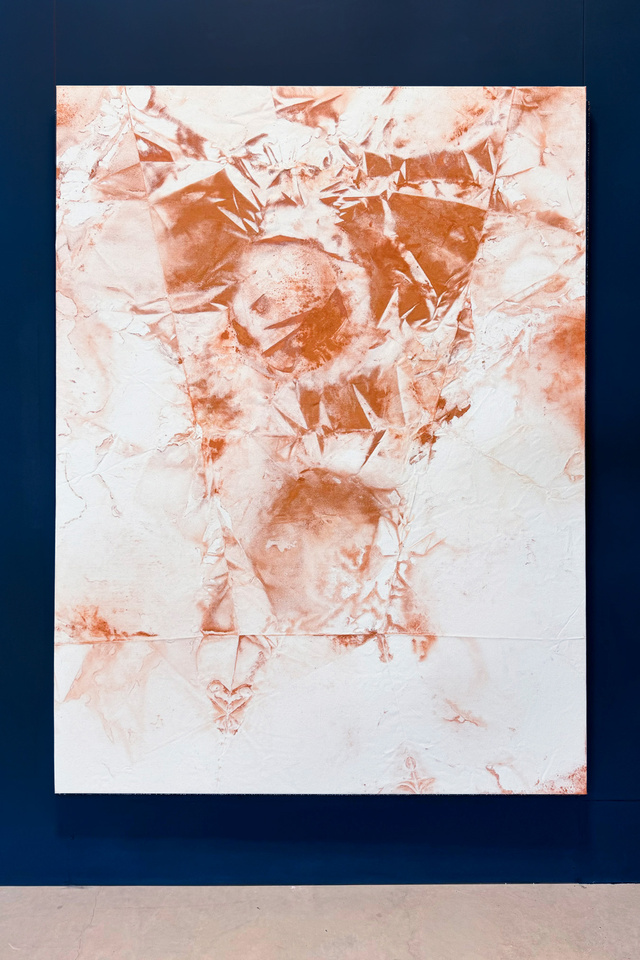
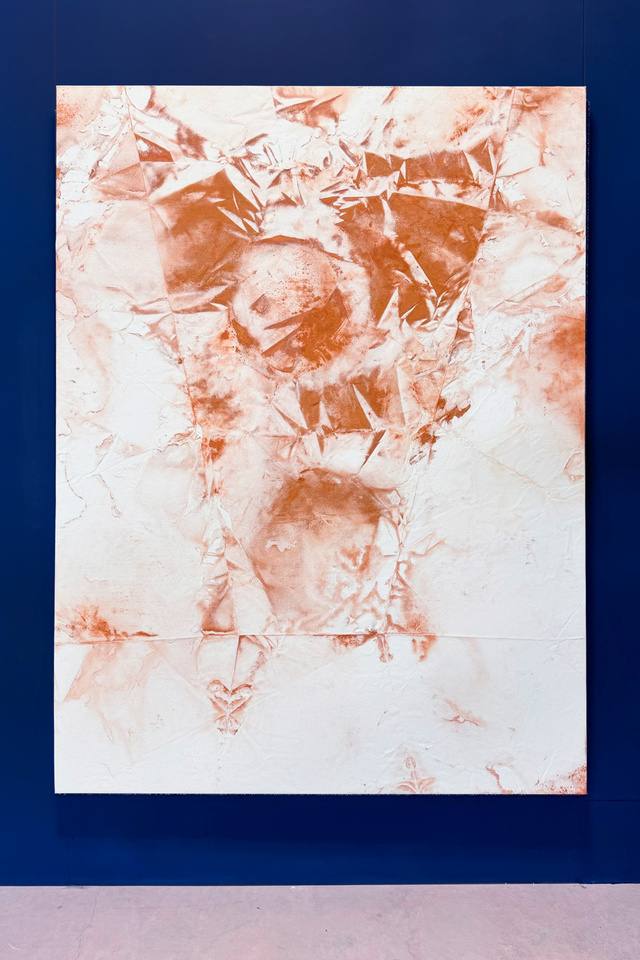
Refresh Echoes of Extraction images

diff --git a/fr/oeuvres/index.html b/fr/oeuvres/index.html
@@ -207,7 +207,7 @@
             </article>
 
             <article class="work-item" id="work-echoes-of-extraction" data-medium="installation" data-series="echoes-of-extraction">
-                <img src="../../images/series/24%20echoes%20of%20extraction/i_Echoes%20of%20Extraction%203.2.jpg" alt="Echoes of Extraction, vue d’installation" width="3568" height="2379" loading="lazy" decoding="async" srcset="../../images/responsive/480/series/24%20echoes%20of%20extraction/i_Echoes%20of%20Extraction%203.2.jpg 480w, ../../images/responsive/series/24%20echoes%20of%20extraction/i_Echoes%20of%20Extraction%203.2.jpg 960w, ../../images/series/24%20echoes%20of%20extraction/i_Echoes%20of%20Extraction%203.2.jpg 3568w" sizes="(max-width: 40rem) calc(100vw - 1.5rem), (max-width: 64rem) calc(50vw - 3rem), calc(25vw - 2rem)">
+                <img src="../../images/series/24%20echoes%20of%20extraction/Echoes%20of%20extraction%202.3.jpg" alt="Echoes of Extraction, vue d’installation" width="3568" height="2379" loading="lazy" decoding="async" srcset="../../images/responsive/480/series/24%20echoes%20of%20extraction/Echoes%20of%20extraction%202.3.jpg 480w, ../../images/responsive/series/24%20echoes%20of%20extraction/Echoes%20of%20extraction%202.3.jpg 960w, ../../images/series/24%20echoes%20of%20extraction/Echoes%20of%20extraction%202.3.jpg 3568w" sizes="(max-width: 40rem) calc(100vw - 1.5rem), (max-width: 64rem) calc(50vw - 3rem), calc(25vw - 2rem)">
                 <div class="artwork-description">
                     <p><strong>Echoes of Extraction</strong></p>
                     <p>2024</p>
@@ -514,7 +514,7 @@
             </article>
 
             <article class="work-item" data-medium="painting" data-series="echoes-of-extraction">
-                <img loading="lazy" decoding="async" src="../../images/painting/Fractal%20Forest%201%203.2.jpg" alt="Fractal Forest" width="6905" height="4604" data-lightbox-group="fractal-forest" srcset="../../images/responsive/480/painting/Fractal%20Forest%201%203.2.jpg 480w, ../../images/responsive/painting/Fractal%20Forest%201%203.2.jpg 960w, ../../images/painting/Fractal%20Forest%201%203.2.jpg 6905w" sizes="(max-width: 40rem) calc(100vw - 1.5rem), (max-width: 64rem) calc(50vw - 3rem), calc(25vw - 2rem)">
+                <img loading="lazy" decoding="async" src="../../images/painting/Fractal%20Forest%201%203.2.jpg" alt="Fractal Forest" width="3450" height="2300" data-lightbox-group="fractal-forest" srcset="../../images/responsive/480/painting/Fractal%20Forest%201%203.2.jpg 480w, ../../images/responsive/painting/Fractal%20Forest%201%203.2.jpg 960w, ../../images/painting/Fractal%20Forest%201%203.2.jpg 3450w" sizes="(max-width: 40rem) calc(100vw - 1.5rem), (max-width: 64rem) calc(50vw - 3rem), calc(25vw - 2rem)">
                 <img src="../../images/painting/Fractal%20Forest%202%203.2.jpg" alt="Fractal Forest" width="3568" height="2379" loading="lazy" decoding="async" data-lightbox-only data-lightbox-group="fractal-forest" hidden>
                 <div class="artwork-description">
                     <p><strong>Fractal Forest</strong></p>

diff --git a/selected-works/index.html b/selected-works/index.html
@@ -205,7 +205,7 @@
             </article>
 
             <article class="work-item" id="work-echoes-of-extraction" data-medium="installation" data-series="echoes-of-extraction">
-                <img src="../images/series/24%20echoes%20of%20extraction/i_Echoes%20of%20Extraction%203.2.jpg" alt="Echoes of Extraction, installation view" width="3568" height="2379" loading="lazy" decoding="async" srcset="../images/responsive/480/series/24%20echoes%20of%20extraction/i_Echoes%20of%20Extraction%203.2.jpg 480w, ../images/responsive/series/24%20echoes%20of%20extraction/i_Echoes%20of%20Extraction%203.2.jpg 960w, ../images/series/24%20echoes%20of%20extraction/i_Echoes%20of%20Extraction%203.2.jpg 3568w" sizes="(max-width: 40rem) calc(100vw - 1.5rem), (max-width: 64rem) calc(50vw - 3rem), calc(25vw - 2rem)">
+                <img src="../images/series/24%20echoes%20of%20extraction/Echoes%20of%20extraction%202.3.jpg" alt="Echoes of Extraction, installation view" width="3568" height="2379" loading="lazy" decoding="async" srcset="../images/responsive/480/series/24%20echoes%20of%20extraction/Echoes%20of%20extraction%202.3.jpg 480w, ../images/responsive/series/24%20echoes%20of%20extraction/Echoes%20of%20extraction%202.3.jpg 960w, ../images/series/24%20echoes%20of%20extraction/Echoes%20of%20extraction%202.3.jpg 3568w" sizes="(max-width: 40rem) calc(100vw - 1.5rem), (max-width: 64rem) calc(50vw - 3rem), calc(25vw - 2rem)">
                 <div class="artwork-description">
                     <p><strong>Echoes of Extraction</strong></p>
                     <p>2024</p>
@@ -512,7 +512,7 @@
             </article>
 
             <article class="work-item" data-medium="painting" data-series="echoes-of-extraction">
-                <img loading="lazy" decoding="async" src="../images/painting/Fractal%20Forest%201%203.2.jpg" alt="Fractal Forest" width="6905" height="4604" data-lightbox-group="fractal-forest" srcset="../images/responsive/480/painting/Fractal%20Forest%201%203.2.jpg 480w, ../images/responsive/painting/Fractal%20Forest%201%203.2.jpg 960w, ../images/painting/Fractal%20Forest%201%203.2.jpg 6905w" sizes="(max-width: 40rem) calc(100vw - 1.5rem), (max-width: 64rem) calc(50vw - 3rem), calc(25vw - 2rem)">
+                <img loading="lazy" decoding="async" src="../images/painting/Fractal%20Forest%201%203.2.jpg" alt="Fractal Forest" width="3450" height="2300" data-lightbox-group="fractal-forest" srcset="../images/responsive/480/painting/Fractal%20Forest%201%203.2.jpg 480w, ../images/responsive/painting/Fractal%20Forest%201%203.2.jpg 960w, ../images/painting/Fractal%20Forest%201%203.2.jpg 3450w" sizes="(max-width: 40rem) calc(100vw - 1.5rem), (max-width: 64rem) calc(50vw - 3rem), calc(25vw - 2rem)">
                 <img src="../images/painting/Fractal%20Forest%202%203.2.jpg" alt="Fractal Forest" width="3568" height="2379" loading="lazy" decoding="async" data-lightbox-only data-lightbox-group="fractal-forest" hidden>
                 <div class="artwork-description">
                     <p><strong>Fractal Forest</strong></p>
